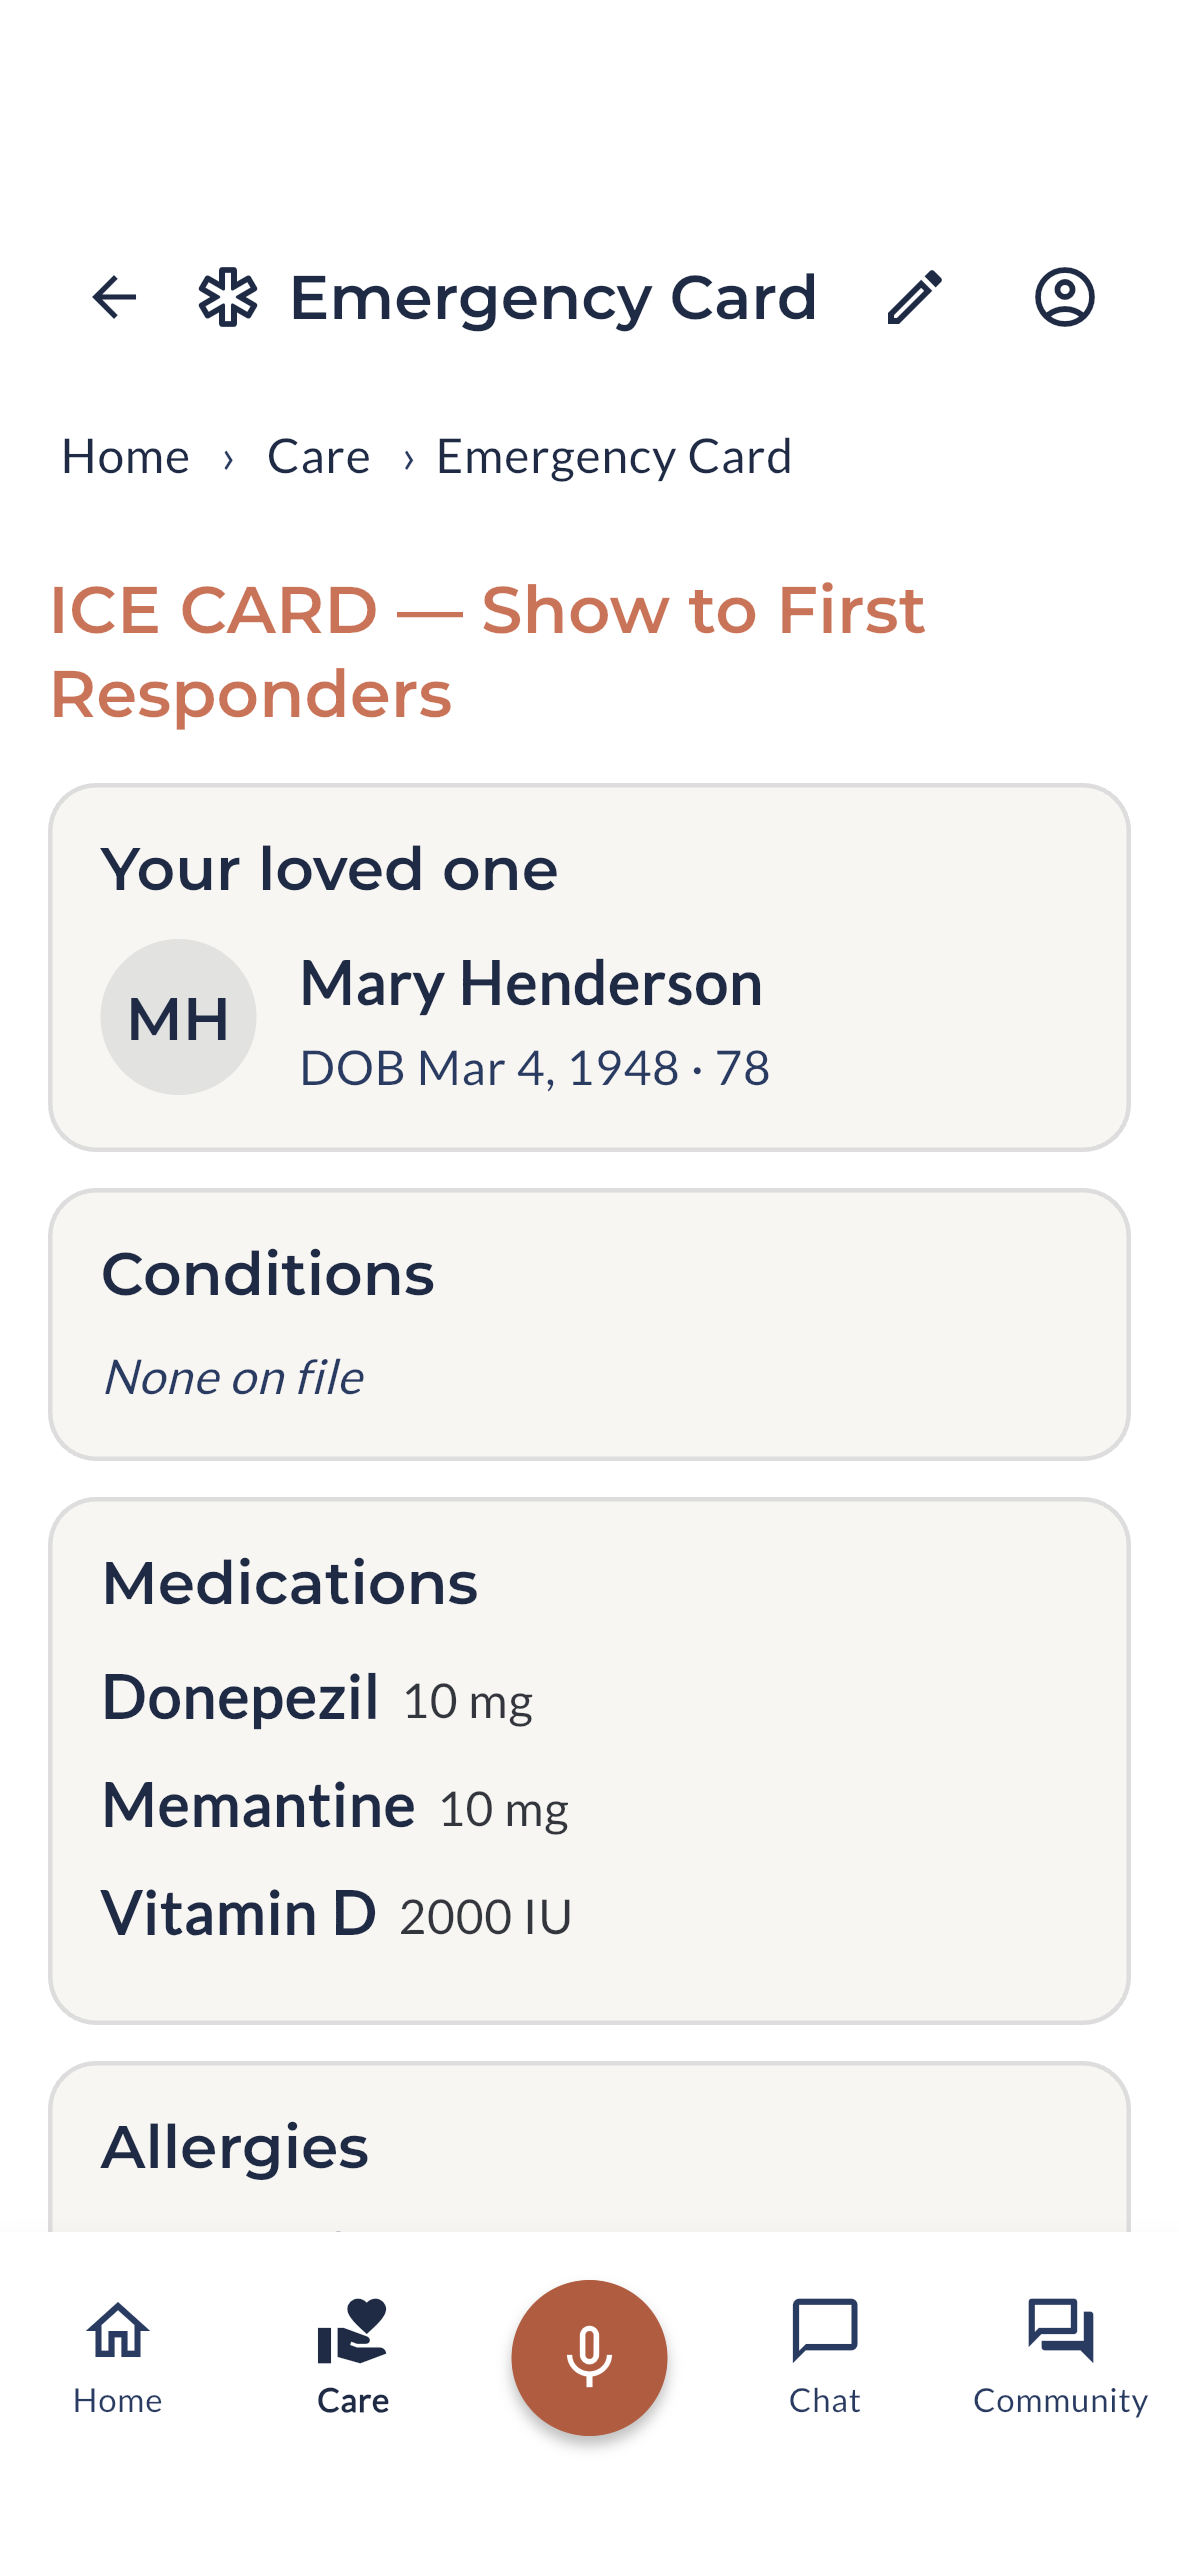
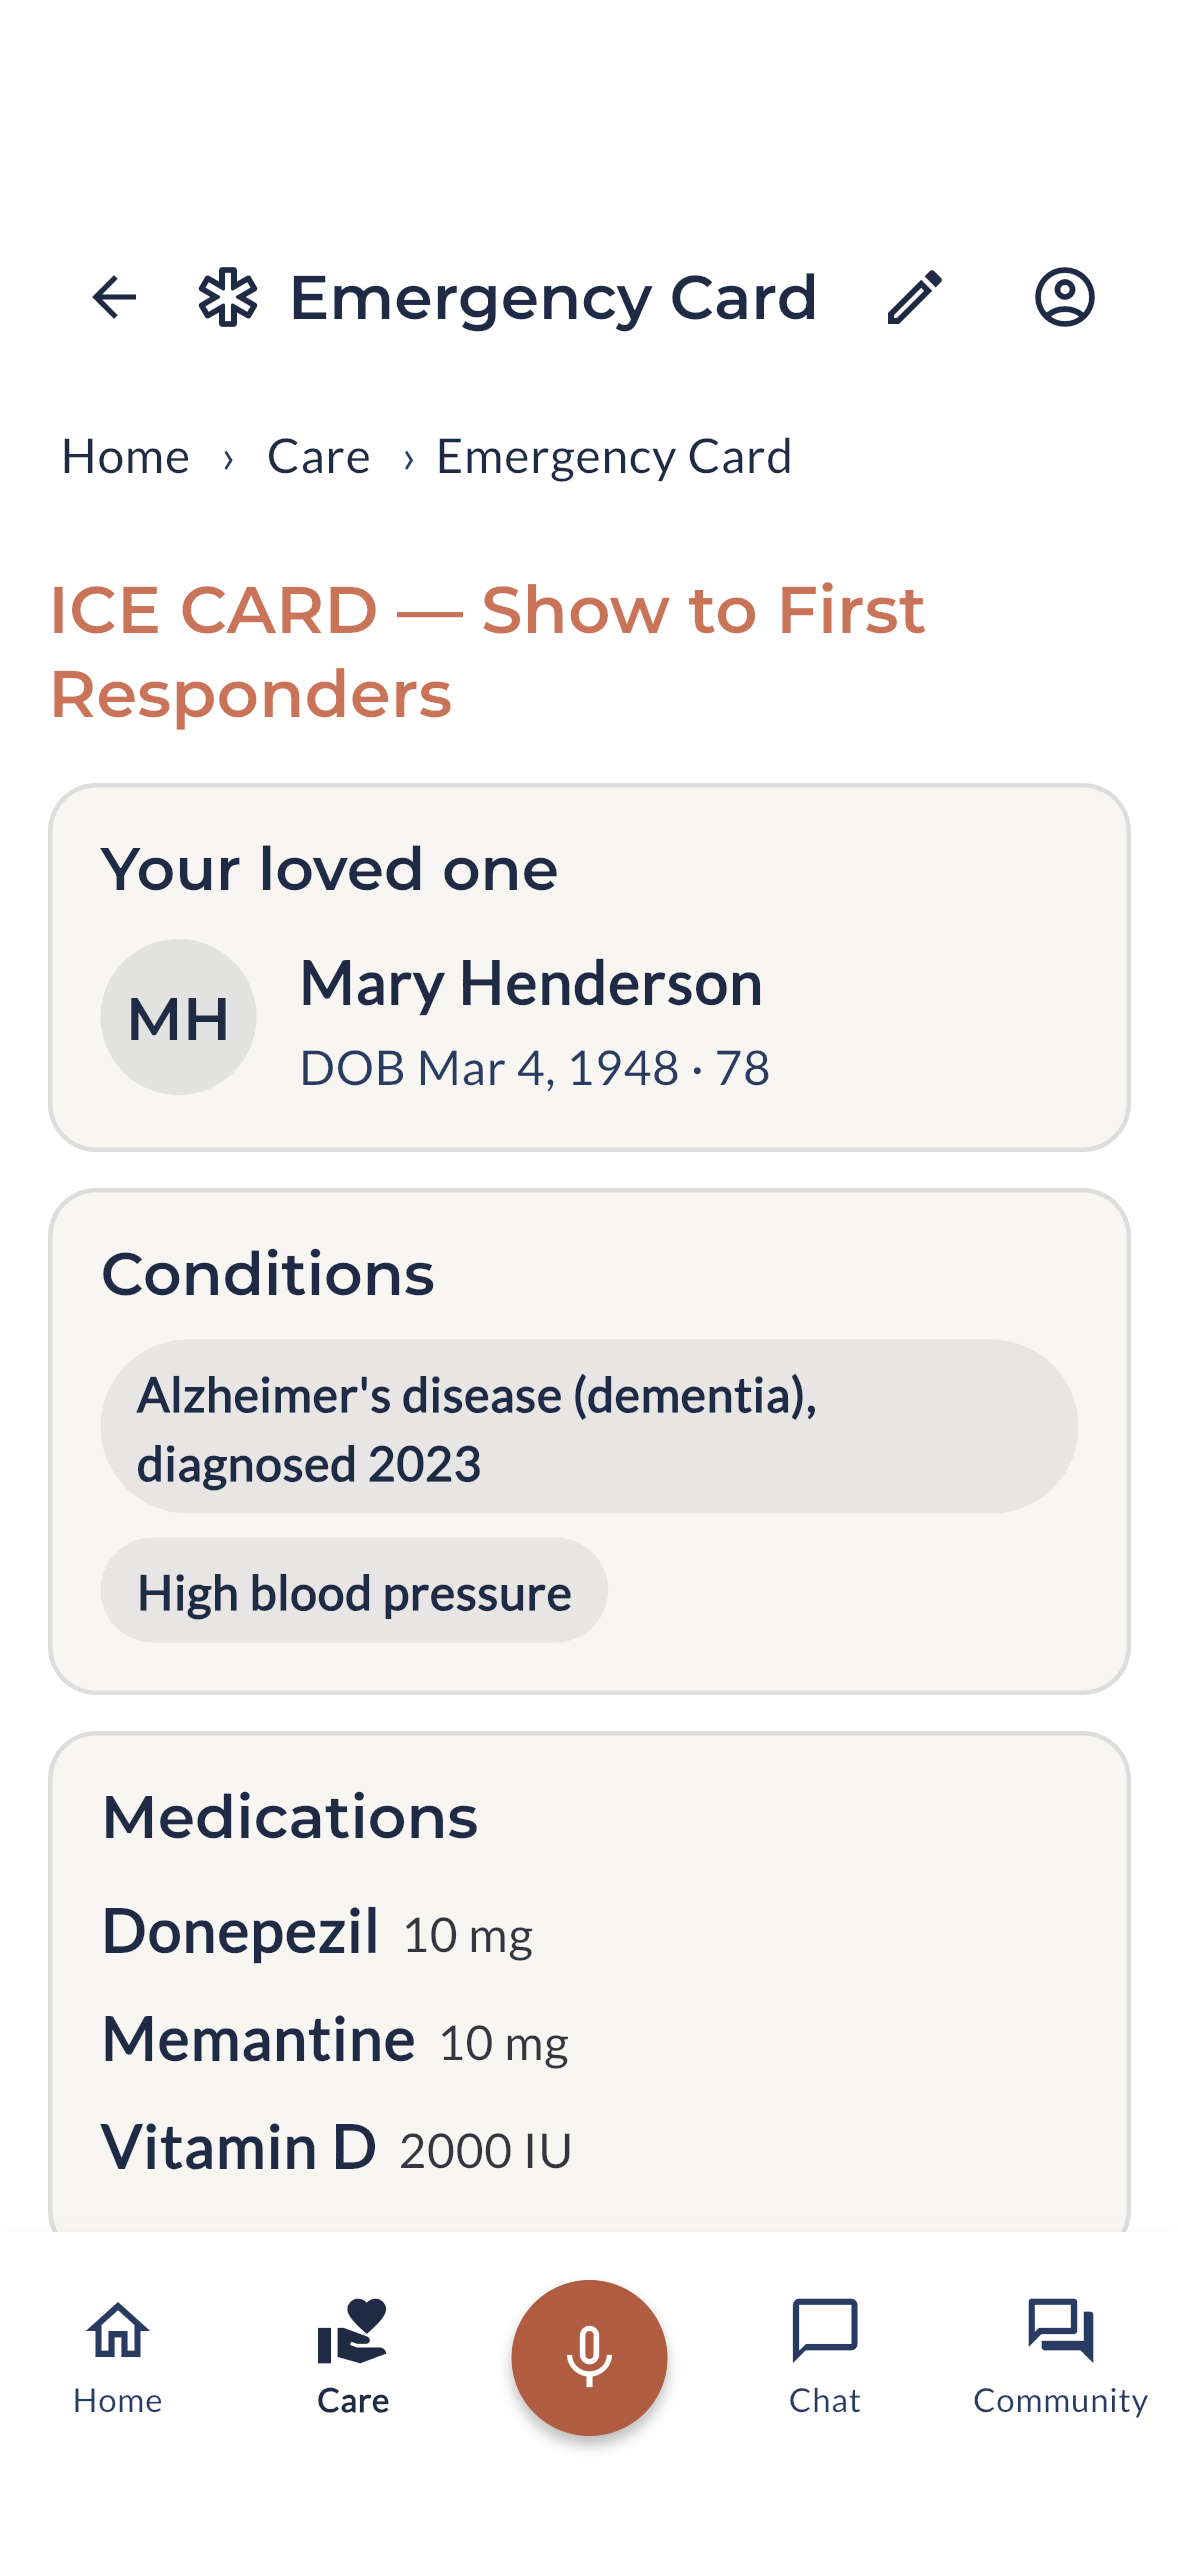
docs: dementia-forward Holdclose screenshots (Emergency Card conditions)
Seed a dementia Emergency Card in the showcase so the ICE screen reads as
dementia care — Conditions now show "Alzheimer's disease (dementia)" +
"High blood pressure" alongside the Donepezil/Memantine meds. Regenerated
the six simulator screenshots. App demo seed unchanged (showcase-only).

Claude-Session: https://claude.ai/code/session_011JvkiVAbdcSmEkRQ9X4V95

diff --git a/integration_test/screenshots_test.dart b/integration_test/screenshots_test.dart
@@ -2,6 +2,8 @@ import 'dart:io';
 
 import 'package:holdclose/app.dart';
 import 'package:holdclose/models/patient.dart' show CrisisMedication;
+import 'package:holdclose/models/document.dart'
+    show EmergencyCard, EmergencyContact, Insurance, DonorStatus;
 import 'package:holdclose/seed/mary_henderson.dart' show maryHenderson;
 import 'package:holdclose/db/database.dart';
 import 'package:holdclose/models/chat.dart';
@@ -181,6 +183,38 @@ void main() {
       ));
 
       final ChatRepository chatRepo = ChatRepository(db);
+
+      // Dementia-grounded Emergency Card so the ICE screen reads as dementia
+      // care (conditions + the hallmark Alzheimer's meds).
+      final DocumentsRepository docsRepo = DocumentsRepository(db);
+      await docsRepo.upsertEmergencyCard(EmergencyCard(
+        id: 'demo-emergency',
+        patientId: 'demo-patient-mary',
+        updatedAt: _fixedNow(),
+        conditions: const <String>[
+          "Alzheimer's disease (dementia), diagnosed 2023",
+          'High blood pressure',
+        ],
+        medications: const <String>[
+          'Donepezil 10 mg',
+          'Memantine 10 mg',
+          'Lisinopril 10 mg',
+        ],
+        allergies: const <String>['Penicillin'],
+        emergencyContacts: const <EmergencyContact>[
+          EmergencyContact(
+            name: 'Sarah Henderson',
+            relation: 'Daughter',
+            phone: '(415) 555-0142',
+          ),
+        ],
+        insurance: const Insurance(
+          carrier: 'Medicare + Blue Shield',
+          policyNumber: '1EG4-TE5-MK72',
+          groupNumber: 'CA-0098',
+        ),
+        donorStatus: DonorStatus.donor,
+      ));
       await _seedThread(
         chatRepo,
         id: 'convo-mother',
@@ -240,8 +274,7 @@ void main() {
               .overrideWithValue(CareShiftsRepository(db)),
           expensesRepositoryBackendProvider
               .overrideWithValue(ExpensesRepository(db)),
-          documentsRepositoryBackendProvider
-              .overrideWithValue(DocumentsRepository(db)),
+          documentsRepositoryBackendProvider.overrideWithValue(docsRepo),
           forumApiClientProvider.overrideWithValue(_demoForumClient()),
         ],
       );
